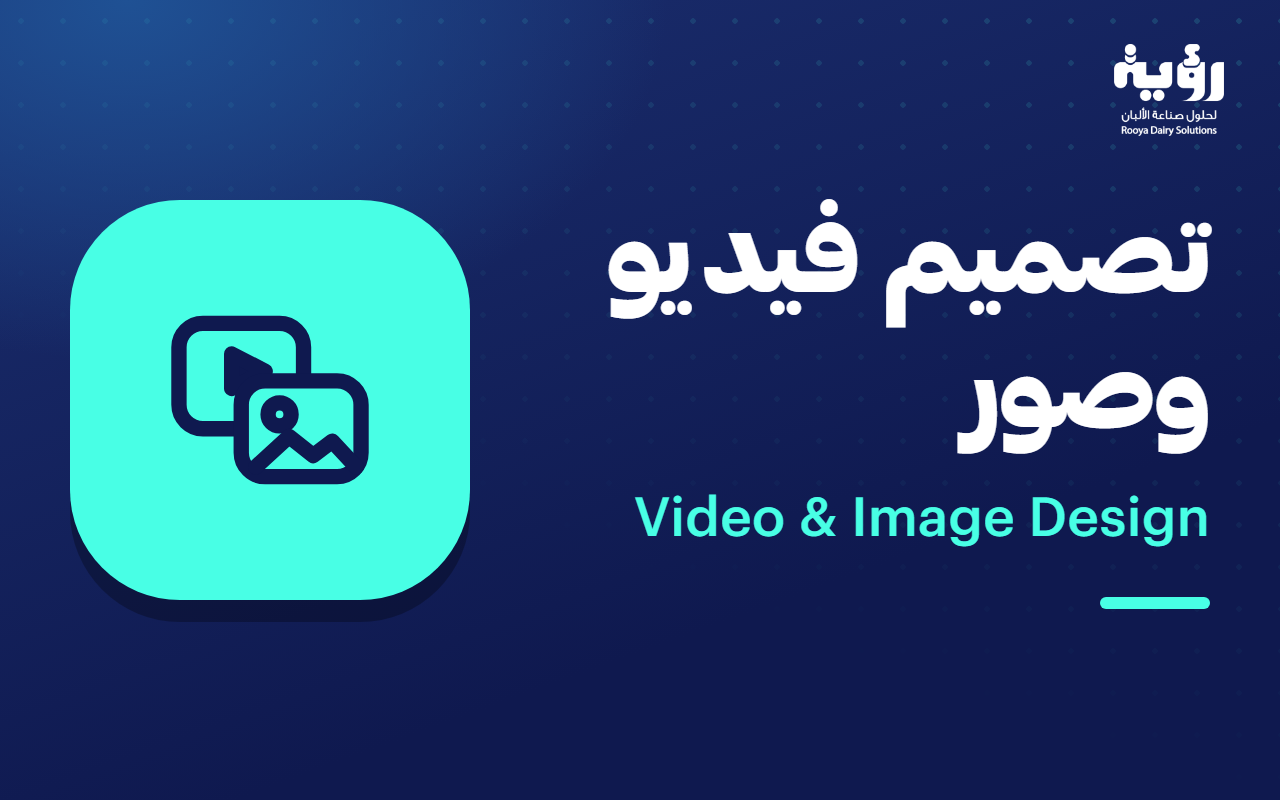
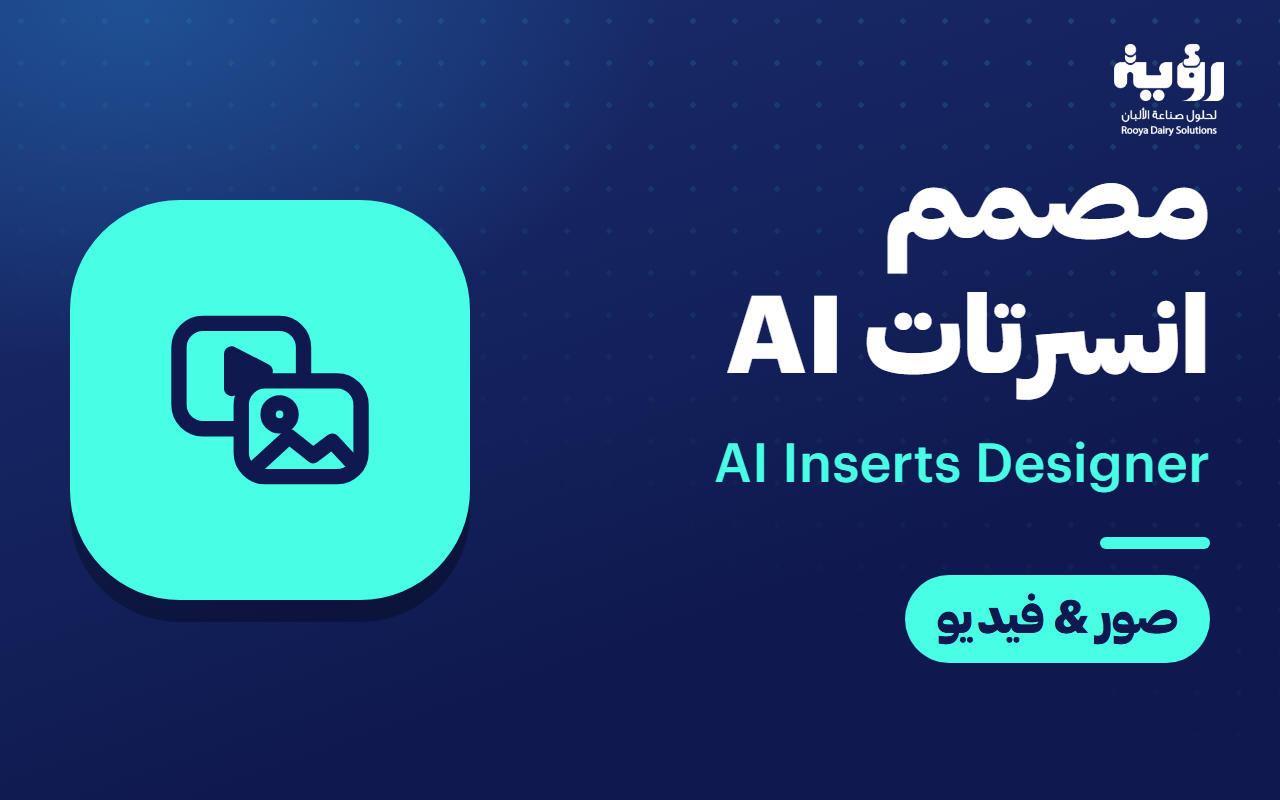
Rename card to AI Inserts Designer (images & video)

Changed region(s): [[0.4688, 0.2188, 0.9688, 0.6875], [0.6875, 0.7188, 0.9688, 0.8438]]

diff --git a/index.html b/index.html
@@ -156,9 +156,9 @@ const SERVICES = [
   },
   {
     id: 'flow',
-    name: 'تصميم فيديو وصور',
-    en: 'Video & Image Design',
-    desc: 'صمّم فيديوهات وصور بالذكاء الاصطناعي عن طريق Google Flow. بتتفتح في تبويب جديد وبتحتاج حساب جوجل.',
+    name: 'مصمم انسرتات AI',
+    en: 'AI Inserts Designer · صور & فيديو',
+    desc: 'صمّم انسرتات صور وفيديو بالذكاء الاصطناعي عن طريق Google Flow. بتتفتح في تبويب جديد وبتحتاج حساب جوجل.',
     img: 'assets/card-flow.png',
     url: 'https://flow.google.com/',
     external: true /* جوجل بتمنع الفتح جوه iframe فبتتفتح في تبويب جديد */
